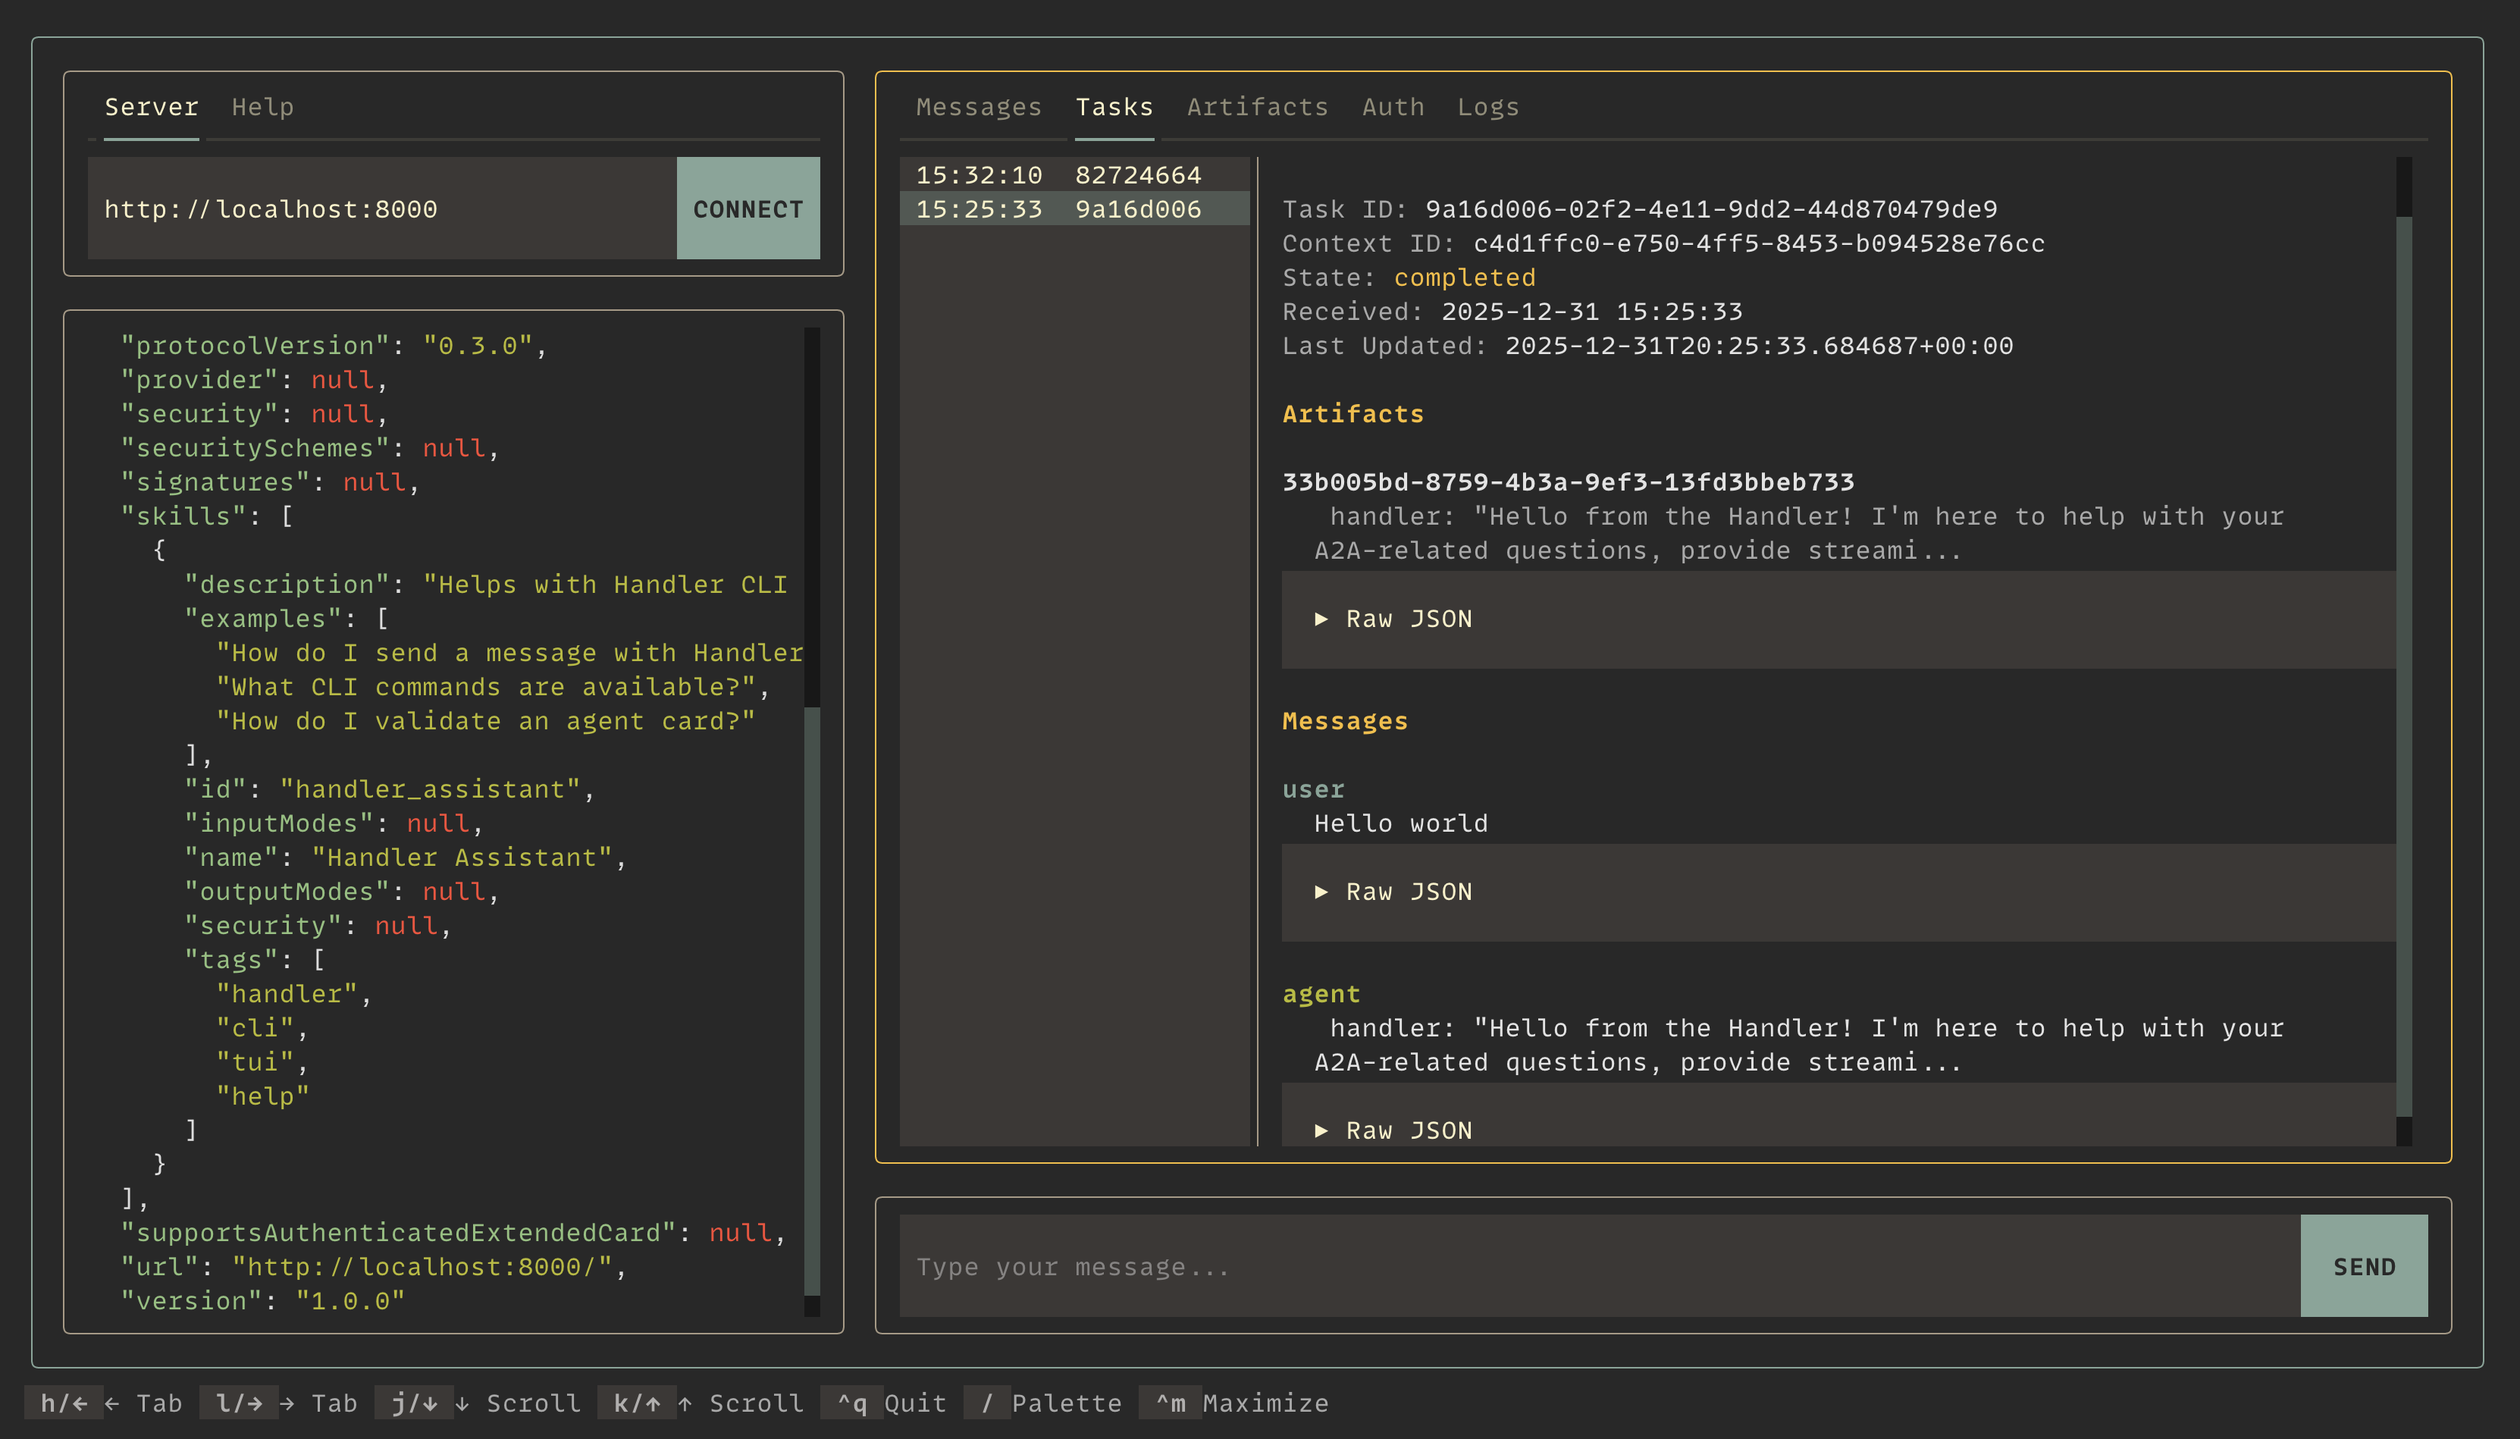
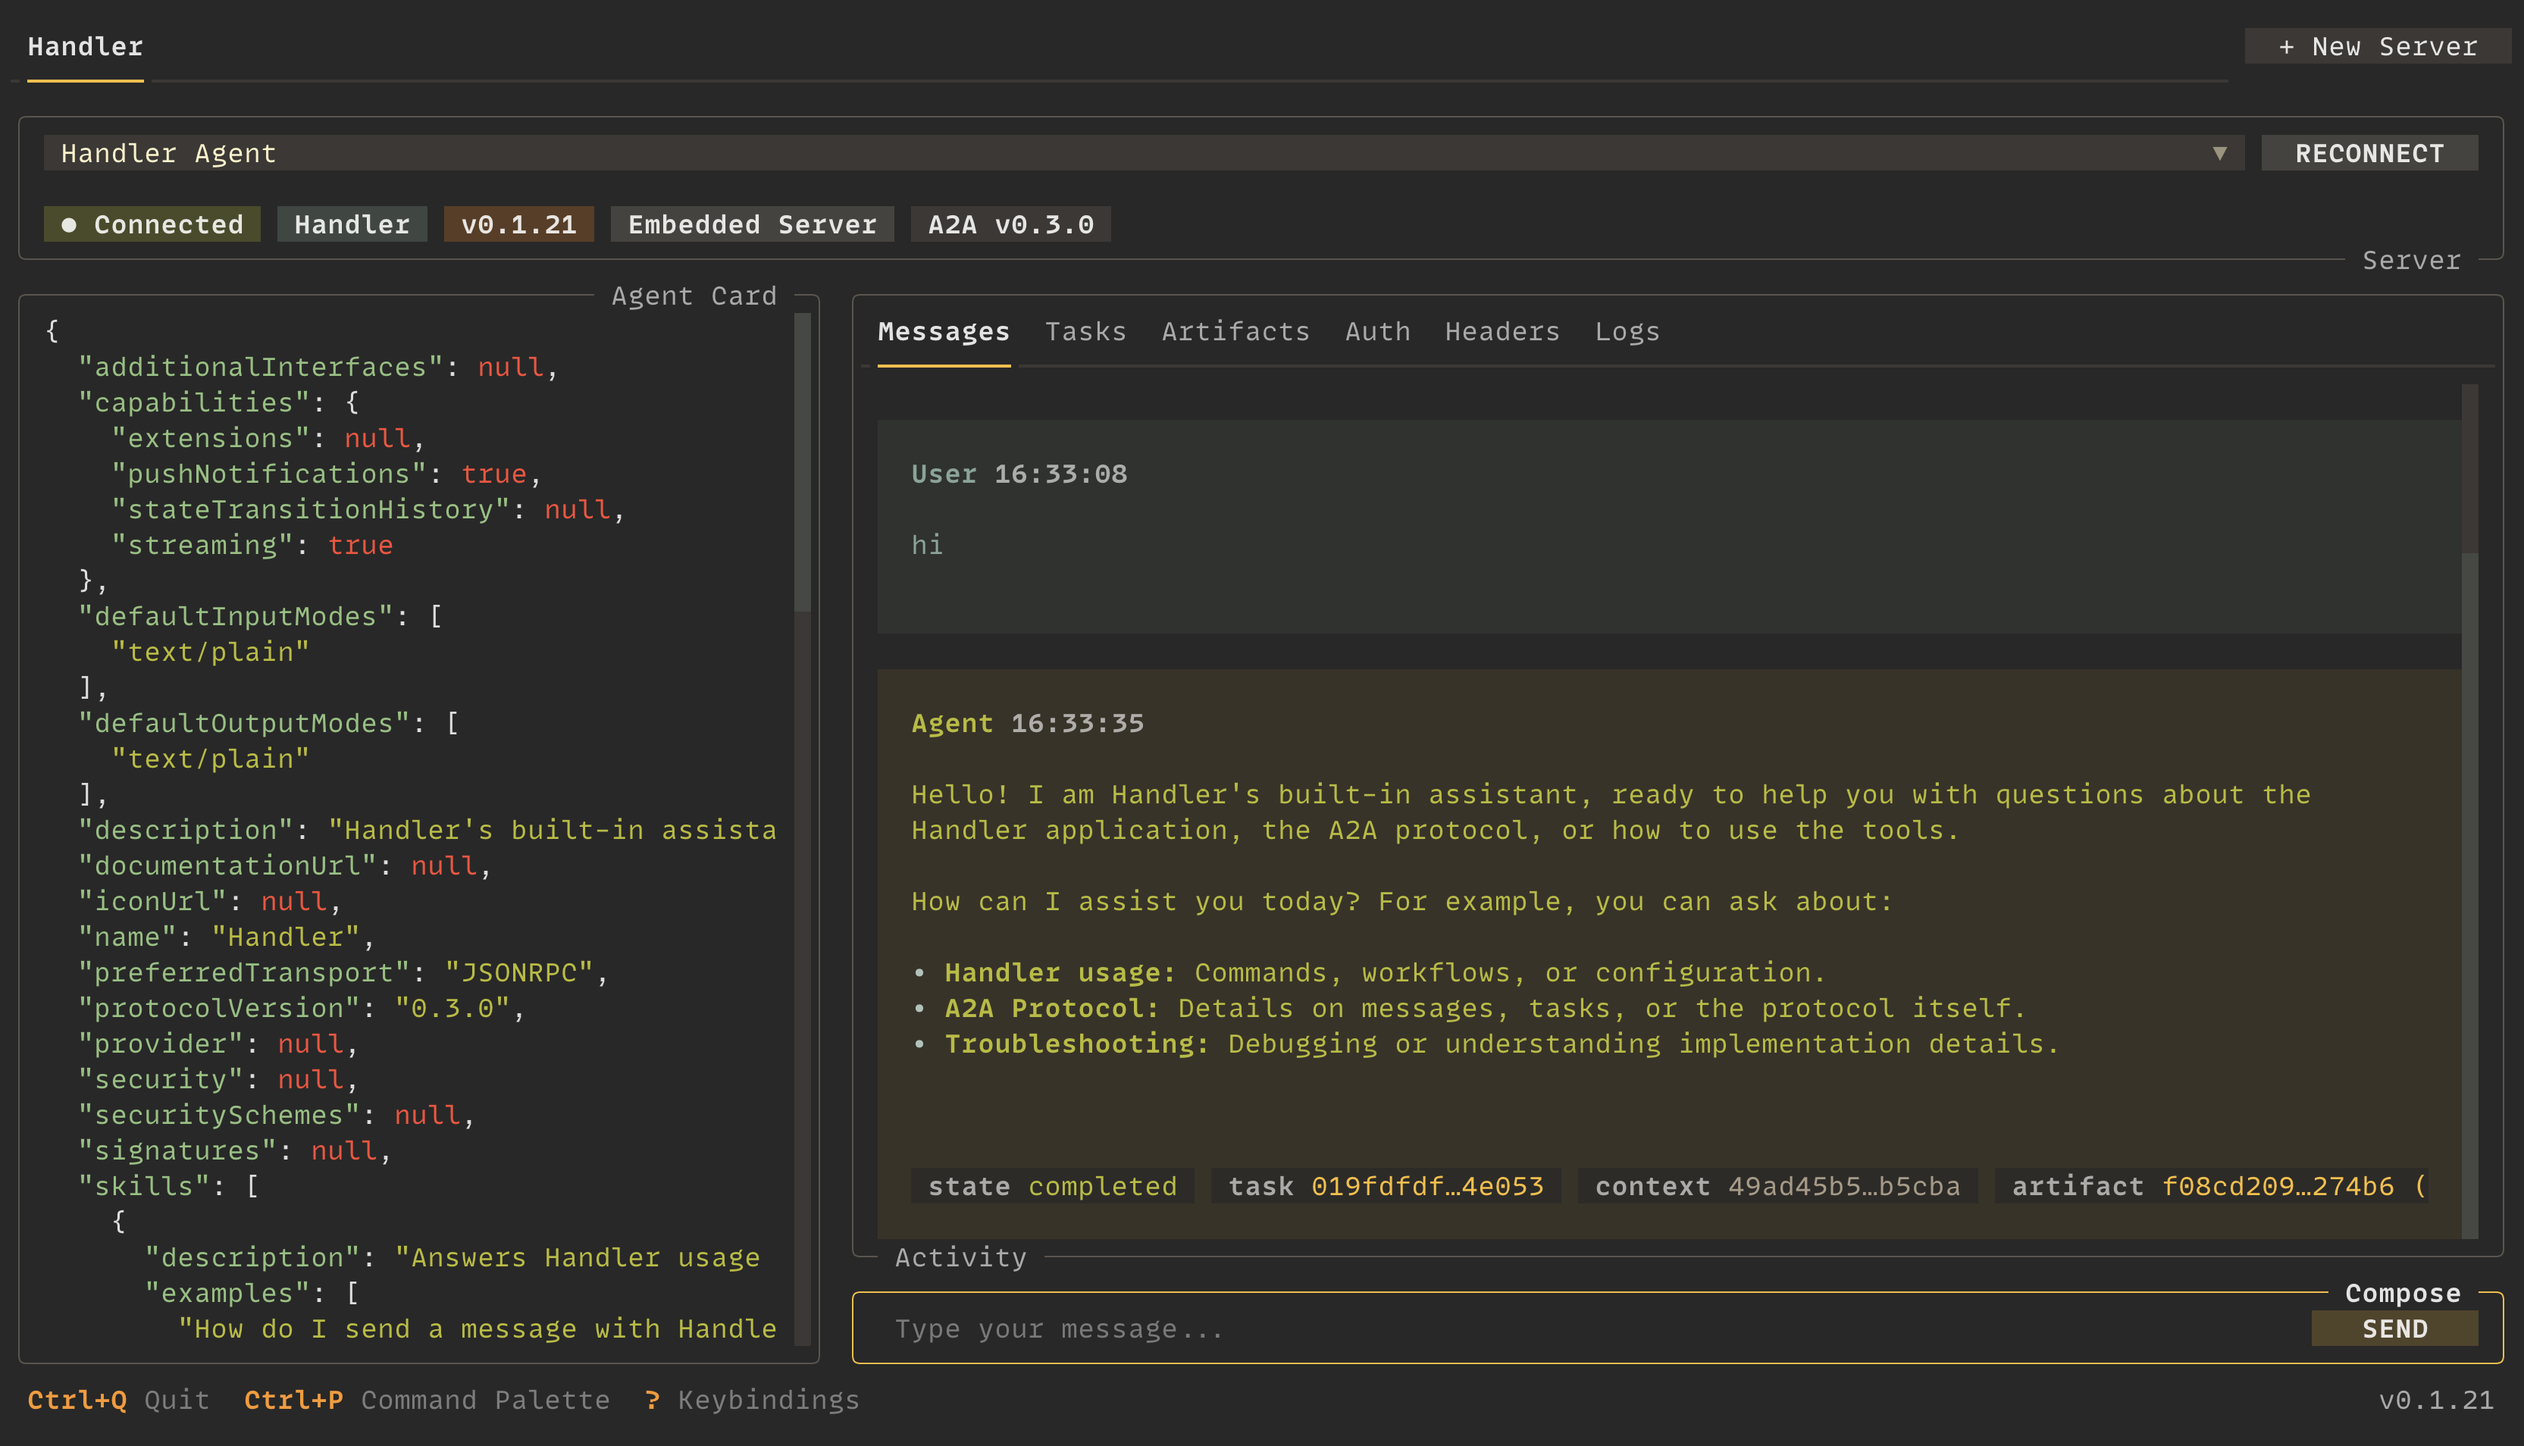
docs: simplify readme
Amp-Thread-ID: https://ampcode.com/threads/T-019e6c9e-7d83-70ea-ad84-71401b97c8d9

diff --git a/README.md b/README.md
@@ -4,7 +4,6 @@
 [![A2A Protocol](https://img.shields.io/badge/A2A_Protocol-v0.3.0-blue)](https://a2a-protocol.org/latest/)
 [![PyPI version](https://img.shields.io/pypi/v/a2a-handler)](https://pypi.org/project/a2a-handler/)
 [![PyPI - Status](https://img.shields.io/pypi/status/a2a-handler)](https://pypi.org/project/a2a-handler/)
-[![PyPI monthly downloads](https://img.shields.io/pypi/dm/a2a-handler)](https://pypi.org/project/a2a-handler/)
 [![Pepy total downloads](https://img.shields.io/pepy/dt/a2a-handler?label=total%20downloads)](https://pepy.tech/projects/a2a-handler)
 [![GitHub stars](https://img.shields.io/github/stars/alDuncanson/handler)](https://github.com/alDuncanson/handler/stargazers)
 
@@ -15,6 +14,8 @@ Use it to talk to A2A agents from an interactive TUI, scriptable CLI, or MCP
 server. Handler supports reusable server profiles, structured output for
 automation, and production auth patterns including bearer tokens, API keys,
 mTLS, and OAuth2 client credentials.
+
+![Handler TUI connected to the built-in Handler Agent, showing the agent card and a completed assistant response](https://github.com/alDuncanson/Handler/blob/main/assets/handler-tui.png?raw=true)
 
 ## Install
 
@@ -76,45 +77,6 @@ Run Handler with `pipx`:
 pipx run a2a-handler
 ```
 
-## Save a server profile
-
-Handler supports named servers in `$XDG_CONFIG_HOME/handler/servers.toml`
-(global) and `.handler/servers.toml` (repo-local).
-
-Define a reusable server profile with auth loaded from the environment:
-
-```toml
-version = 1
-
-[servers.local]
-url = "http://localhost:8000"
-
-[servers.local.auth]
-type = "bearer"
-env = "HANDLER_LOCAL_TOKEN"
-```
-
-Server profiles are especially useful for OAuth-authenticated, gateway-fronted,
-or enterprise A2A services where URLs and auth shape should be reused while
-secrets stay in environment variables.
-
 ## Documentation
 
-- Hosted docs: <https://handler.alduncanson.com>
-- Quickstart source: [docs/quickstart.mdx](docs/quickstart.mdx)
-- CLI reference source: [docs/reference/cli.mdx](docs/reference/cli.mdx)
-
-## Development
-
-A [hermetic](https://zero-to-nix.com/concepts/hermeticity/) dev environment
-is available via [Nix](https://zero-to-nix.com/concepts/nix/):
-
-Enter the development shell:
-
-```bash
-nix develop
-```
-
-The Mintlify docs source lives in `docs/`.
-
-See [CONTRIBUTING.md](CONTRIBUTING.md) for guidelines.
+Read the documentation at <https://handler.alduncanson.com>.
